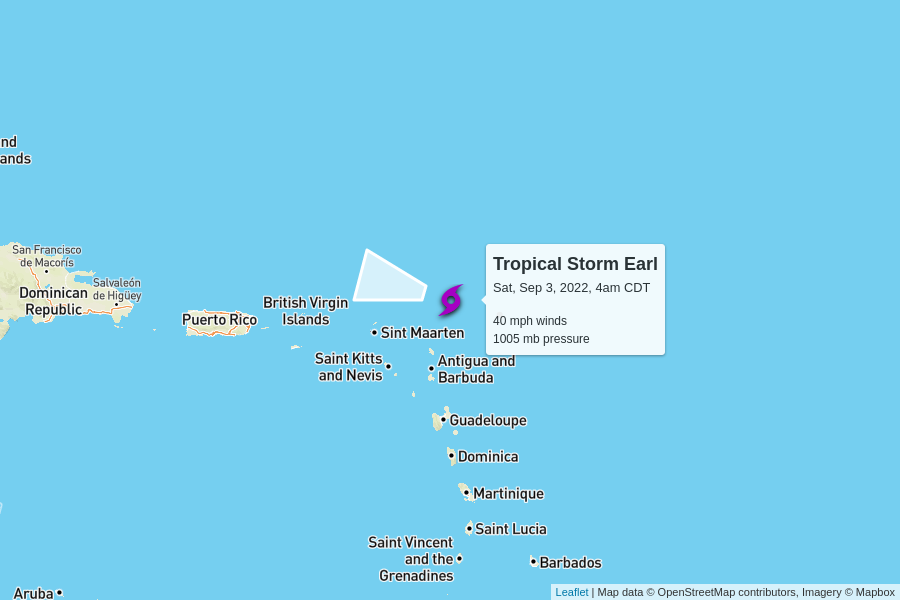
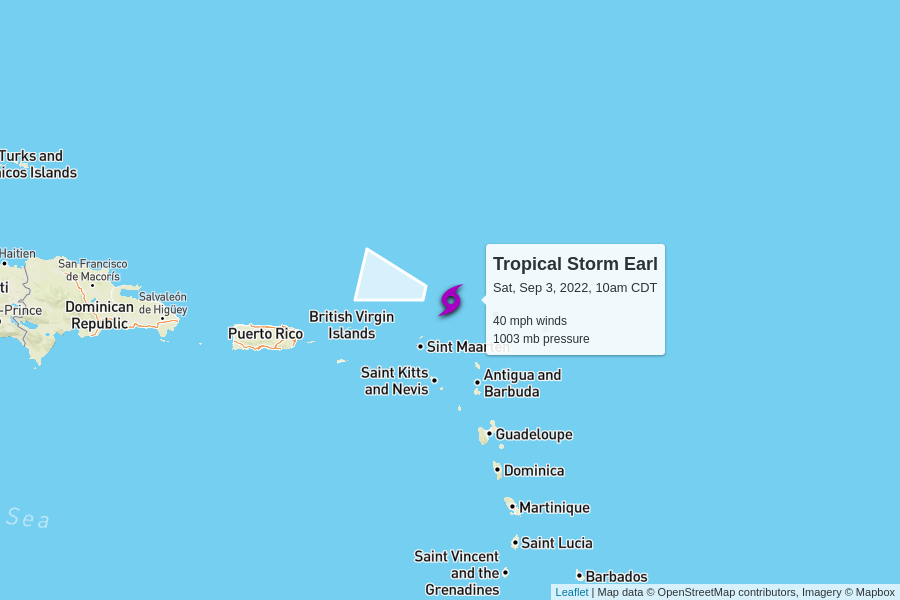
automatic update

diff --git a/docs/index.html b/docs/index.html
@@ -100,7 +100,7 @@
         <td colspan="6" class="storm category-0" >
           <h2>
             Tropical Storm Danielle
-            <p class="updated">last updated <span data-time>2022-09-03T09:00:00.000Z</span></p>
+            <p class="updated">last updated <span data-time>2022-09-03T15:00:00.000Z</span></p>
           </h2>
         </td>
       </tr>
@@ -118,9 +118,9 @@
         <td>70 mph</td>
         <td>990 mb</td>
         <td>
-          1 mph to the west
+          2 mph to the west-northwest
           <br/>
-          <span style="display: inline-block; font-size: 1.5em; transform: rotate(270deg);">↑</span>
+          <span style="display: inline-block; font-size: 1.5em; transform: rotate(300deg);">↑</span>
         </td>
         <td><a href="https://raw.githubusercontent.com/mgwalker/atlantic-hurricanes/main/data/csv/AL052022.csv">AL052022.csv</a></td>
         <td><a href="https://www.nhc.noaa.gov/archive/2022/DANIELLE.shtml?">NHC advisories</a></td>
@@ -144,7 +144,7 @@
         <td colspan="6" class="storm category-0" >
           <h2>
             Tropical Storm Earl
-            <p class="updated">last updated <span data-time>2022-09-03T09:00:00.000Z</span></p>
+            <p class="updated">last updated <span data-time>2022-09-03T15:00:00.000Z</span></p>
           </h2>
         </td>
       </tr>
@@ -160,7 +160,7 @@
       <tr>
         <td class="spacer"></td>
         <td>40 mph</td>
-        <td>1005 mb</td>
+        <td>1003 mb</td>
         <td>
           13 mph to the west-northwest
           <br/>
